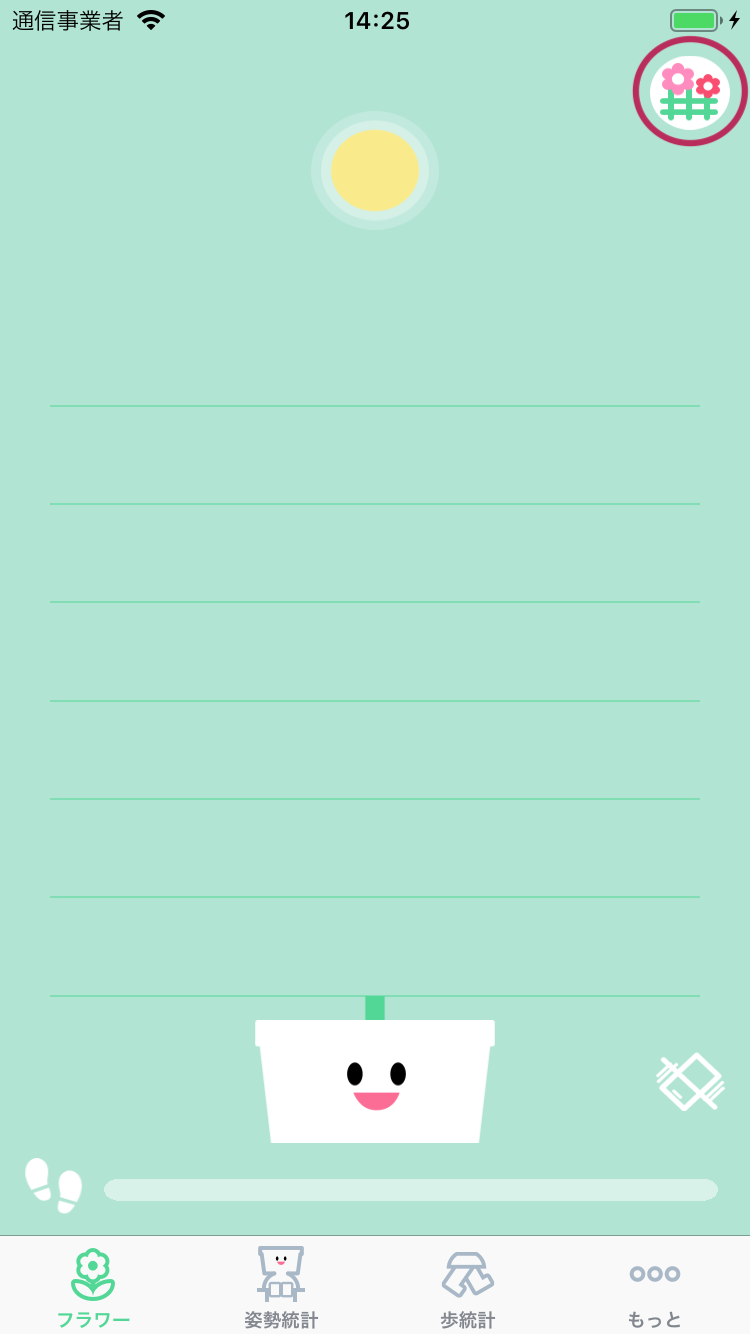
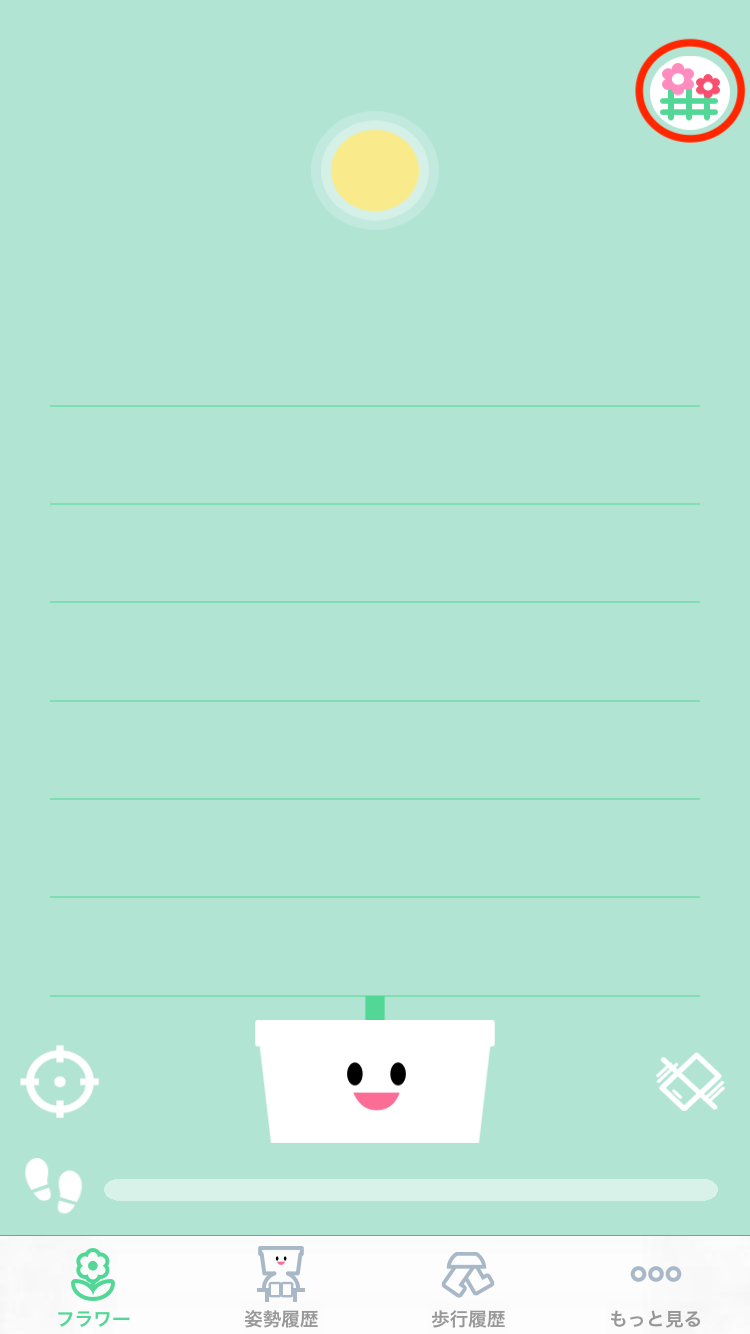
튜토리얼 이미지 및 내용 업데이트

diff --git a/app-guide-account.html b/app-guide-account.html
@@ -1,0 +1,84 @@
+<!DOCTYPE html>
+<html lang="ja">
+<head>
+    <meta charset="UTF-8">
+    <meta content="width=device-width, initial-scale=1.0" name="viewport">
+    <title>App Guide - Lab</title>
+    <link href="css/content.css" rel="stylesheet" type="text/css">
+</head>
+<body>
+<div class="container">
+    <h2>アカウント</h2>
+    <table>
+        <tr> <!-- Login -->
+            <td class="imageTd">
+                <div class="imageBox">
+                    <h3>Login</h3>
+                    <img alt="login.png" class="screenImage" src="resources/login.png">
+                </div>
+                <div class="explainBox">
+                    <ul>
+                        <li>メールアドレスとパスワードを入力してログインができます。</li>
+                        <li>LINEアカウントがあれば、「LINEでログイン」ボタンをタップしてログインできます。</li>
+                    </ul>
+                    <ul>
+                        <li>まだ会員に登録されていない方は「会員登録」をタップして、アカウントを登録することができます。</li>
+                        <li>アカウントのパスワードをお忘れの方は、「探し」 をタップして仮パスワードを発行することができます。</li>
+                        <li>アカウントを登録しましたが、認証メールを受信できなかった方は、「認証メールの再送信」をタップして再送信要請することができます。</li>
+                    </ul>
+                </div>
+            </td>
+        </tr>
+        <tr> <!-- 회원등록 -->
+            <td class="imageTd">
+                <div class="imageBox">
+                    <h3>新規会員登録</h3>
+                    <img alt="new_account.png" class="screenImage" src="resources/new_account.png">
+                </div>
+                <div class="explainBox">
+
+                    <ul>
+                        <li>メールアドレスとパスワードを入力して、会員登録をすることができます。</li>
+                        <li>会員登録に成功すると、認証メールが送信され、上部に緑のアラームを確認することができます。</li>
+                        <li>登録したメールの「受信トレイ」を確認し、受信したメールの中の「認証リンク」をクリックすれば会員登録が完了します。</li>
+                    </ul>
+                </div>
+            </td>
+        </tr>
+
+        <tr> <!-- 인증메일 재전송 -->
+            <td class="imageTd">
+                <div class="imageBox">
+                    <h3>新規会員登録</h3>
+                    <img alt="resend-authentication.png" class="screenImage" src="resources/resend-authentication.png">
+                </div>
+                <div class="explainBox">
+
+                    <ul>
+                        <li>認証メールを受信できなかった場合、認証メールを再送信要請することができます。</li>
+                        <li>登録したメールを入力し、「発行する」ボタンを押すと、認証メールが再送信されます。</li>
+                    </ul>
+                </div>
+            </td>
+        </tr>
+
+        <tr> <!-- 임시비밀번호 발급 -->
+            <td class="imageTd">
+                <div class="imageBox">
+                    <h3>新規会員登録</h3>
+                    <img alt="temporary-password.png" class="screenImage" src="resources/temporary-password.png">
+                </div>
+                <div class="explainBox">
+
+                    <ul>
+                        <li>アカウントのパスワードをお忘れた場合、仮パスワードに発行することができます。</li>
+                        <li>メールアドレスと生年月日を入力して、「発行する」ボタンを押すと、仮パスワードをメールでお送りいたします。</li>
+                        <li>仮パスワードでログインすると、パスワードを再設定する必要があります。</li>
+                    </ul>
+                </div>
+            </td>
+        </tr>
+    </table>
+</div>
+</body>
+</html>

diff --git a/app-guide-step-history.html b/app-guide-step-history.html
@@ -19,13 +19,73 @@
                 <div class="explainBox">
 
                     <ul>
-                        <li>歩数の統計を日別、週別、月別　グラフで　確認できます。</li>
-                        <li>下段の歩みバランスはテストをして準備しています　近い将来アップデートします。</li>
-                        <li>実験室のWalk Monitor　メニューに　歩みバランスをテストして見ることができます。</li>
+                        <li>歩行履歴を、日別・週別・月別グラフで確認できます。</li>
+                        <li>下部の歩行バランスは日、週、月、別の計測されたデータの平均を示しています。</li>
+                        <li>左下の「測定」ボタンを押して、歩行バランスを測定することができます。</li>
                     </ul>
                 </div>
             </td>
         </tr>
+
+        <tr> <!-- 걸음밸런스 -->
+            <td class="imageTd">
+                <!-- 측정시작 화면 -->
+                <div class="imageBox">
+                    <h3>歩行バランス</h3>
+                    <img alt="gait_start.png" class="screenImage" src="resources/gait_start.png">
+                </div>
+                <div class="explainBox">
+
+                    <ul>
+                        <li>歩行バランス開始画面です。</li>
+                        <li>「計測スタート」ボタンを押すと、測定が開始されます。</li>
+                        <li>説明および注意事項を必ずお読みください。</li>
+                    </ul>
+                </div>
+                <!-- 측정중 화면 -->
+                <div class="imageBox">
+                    <h3>歩行バランス 計測中</h3>
+                    <img alt="gait_measuring.png" class="screenImage" src="resources/gait_measuring.png">
+                </div>
+                <div class="explainBox">
+
+                    <ul>
+                        <li>計測中の画面です。</li>
+                        <li>フロアに届く足によって、画像が変更されます。</li>
+                        <li>20歩以上充分に歩いたと思ったら、「計測ストップ」ボタンを押してください。</li>
+                    </ul>
+                </div>
+                <!-- 측정결과 걸음부족 -->
+                <div class="imageBox">
+                    <h3>歩数不足</h3>
+                    <img alt="gait_not_enough.png.png" class="screenImage" src="resources/gait_not_enough.png">
+                </div>
+                <div class="explainBox">
+
+                    <ul>
+                        <li>歩数不足した場合に表示される画面です。</li>
+                        <li>「リセット」ボタンを押して再度計測してください。</li>
+                        <li>もっと歩いた後に「計測ストップ」ボタンを押してください。</li>
+                    </ul>
+                </div>
+
+                <!-- 측정결과 -->
+                <div class="imageBox">
+                    <h3>計測結果</h3>
+                    <img alt="gait_finish.png" class="screenImage" src="resources/gait_finish.png">
+                </div>
+                <div class="explainBox">
+
+                    <ul>
+                        <li>計測結果画面です。</li>
+                        <li>左足と右足の歩行平均の時間を確認することができます。</li>
+                        <li>「記録」ボタンを押すと、データが保存され、歩行統計画面に表示されます。</li>
+                        <li>「キャンセル」ボタンを押すと、データを保存しません。</li>
+                    </ul>
+                </div>
+            </td>
+        </tr>
+
     </table>
 
 </div>

diff --git a/app-guide-flower.html b/app-guide-flower.html
@@ -75,7 +75,11 @@
                     <h3>花ー太陽</h3>
                     <img alt="move_sun_left_direction.png" class="screenImage"
                          src="resources/move_sun_left_direction.png">
+                    <br/><br/>
+                    <img alt="move_sun_right_direction.png" class="screenImage"
+                         src="resources/move_sun_right_direction.png">
                 </div>
+
                 <div class="explainBox">
 
                     <ul>
@@ -174,6 +178,40 @@
                     <ul>
                         <li>植物を植え替えする前に要約情報を確認できます。</li>
                         <li>選択の如何によってこの植物を育てる中に痛みがあった部位、痛み程度の記録ができます。</li>
+                    </ul>
+                </div>
+            </td>
+        </tr>
+
+        <tr> <!-- 화단 목록 -->
+            <td class="imageTd">
+                <div class="imageBox">
+                    <h3>花ー植物結果</h3>
+                    <img alt="garden.png" class="screenImage" src="resources/garden.png">
+                </div>
+                <div class="explainBox">
+
+                    <ul>
+                        <li>植物が花を咲かせた後、「移植」をタップすると、この花壇に植物が移植されます。</li>
+                        <li>今まで育てた植物を下から順に確認することができます。</li>
+                        <li>植物をタップすると、その植物を再び見ることができます。</li>
+                    </ul>
+                </div>
+            </td>
+        </tr>
+
+        <tr> <!-- 화단 식물 다시보기 -->
+            <td class="imageTd">
+                <div class="imageBox">
+                    <h3>花ー植物結果</h3>
+                    <img alt="garden_replay.png" class="screenImage" src="resources/garden_replay.png">
+                    <img alt="garden_replay_detail.png" class="screenImage" src="resources/garden_replay_detail.png">
+                </div>
+                <div class="explainBox">
+
+                    <ul>
+                        <li>この花の種が選択された時間から移植された時間が下に表示されており、植物が育った形と花のスコアを確認することができます。</li>
+                        <li>花をタップすると、この期間の「正しい姿勢/悪い姿勢の時間」と「入力した痛みの情報」も確認することができます。</li>
                     </ul>
                 </div>
             </td>

diff --git a/app-guide-pairing.html b/app-guide-pairing.html
@@ -1,0 +1,43 @@
+<!DOCTYPE html>
+<html lang="ja">
+<head>
+    <meta charset="UTF-8">
+    <meta content="width=device-width, initial-scale=1.0" name="viewport">
+    <title>App Guide - Lab</title>
+    <link href="css/content.css" rel="stylesheet" type="text/css">
+</head>
+<body>
+<div class="container">
+    <h2>ペアリング</h2>
+    <table>
+        <tr> <!-- 페어링 -->
+            <td class="imageTd">
+                <div class="imageBox">
+                    <h3>実験室　-　 Posture Detect</h3>
+                    <img alt="pairing.png" class="screenImage" src="resources/pairing.png">
+                </div>
+                <div class="explainBox">
+                    <ul>
+                        <li>SEEDアプリとSEED機器をBluetoothで接続します。</li>
+                    </ul>
+                    <ul>
+                        <li>SEED機器のボタンを3秒間押すと、青色のLEDが点滅します。</li>
+                        <li>青色のLEDが点滅している間、アプリ画面の右上の「開始」ボタンを押します。</li>
+                        <li>接続に成功すると、機器のファームウェアバージョンを確認してアップデートします。</li>
+                    </ul>
+                    <ul>
+                        <li>ペアリング過程は、最初の一度だけ進行するとされます。</li>
+                        <li>機器のボタンを3秒間押しても、青色のLEDが点滅しない場合</li>
+                            <ol>
+                                <li>機器のボタンを短く押した場合、振動は来ます場合→ 接続中にエラーが発生した場合、または以前にペアリングがされていることがある場合です。SEED機器のボタンを20秒間押して、青のLEDが点滅することを確認した後に再試行してください。 (※ アプリで「強制ログイン」メッセージが表示されたら、「確認」を選択してください。)</li>
+                                <li>バッテリーが放電している可能性があります。機器を充電して再試行してください。</li>
+                                <li>それでも接続できない場合は、カスタマーサービスまでお問い合わせください。</li>
+                            </ol>
+                    </ul>
+                </div>
+            </td>
+        </tr>
+    </table>
+</div>
+</body>
+</html>

diff --git a/css/content.css b/css/content.css
@@ -20,7 +20,9 @@ img.wearImage {
 
 img.screenImage {
     width: 70%;
+    border: 1px solid darkgray;
 }
+
 
 td.imageTd {
     width: 50%;
@@ -60,20 +62,3 @@ h3 {
     }
 }
 
-@media (min-width: 768px) {
-    .container {
-        max-width: 720px;
-    }
-}
-
-@media (min-width: 992px) {
-    .container {
-        max-width: 960px;
-    }
-}
-
-@media (min-width: 1200px) {
-    .container {
-        max-width: 1140px;
-    }
-}

diff --git a/index.html b/index.html
@@ -18,6 +18,12 @@
             <div><a href="how-to-wear.html">着用方法</a></div>
         </li>
         <li>
+            <div><a href="app-guide-account.html">アカウント</a></div>
+        </li>
+        <li>
+            <div><a href="app-guide-pairing.html">ペアリング</a></div>
+        </li>
+        <li>
             <div><a href="app-guide-flower.html">App Guide - Flower</a></div>
         </li>
         <li>

diff --git a/app-guide-lab.html b/app-guide-lab.html
@@ -25,7 +25,8 @@
                 </div>
             </td>
         </tr>
-        <tr> <!-- 실험실 - Walk Monitor -->
+        <!-- 실험실 - Walk Monitor
+        <tr>
             <td class="imageTd">
                 <div class="imageBox">
                     <h3>実験室-　Walk Monitor</h3>
@@ -41,6 +42,7 @@
                 </div>
             </td>
         </tr>
+        -->
     </table>
 </div>
 </body>
